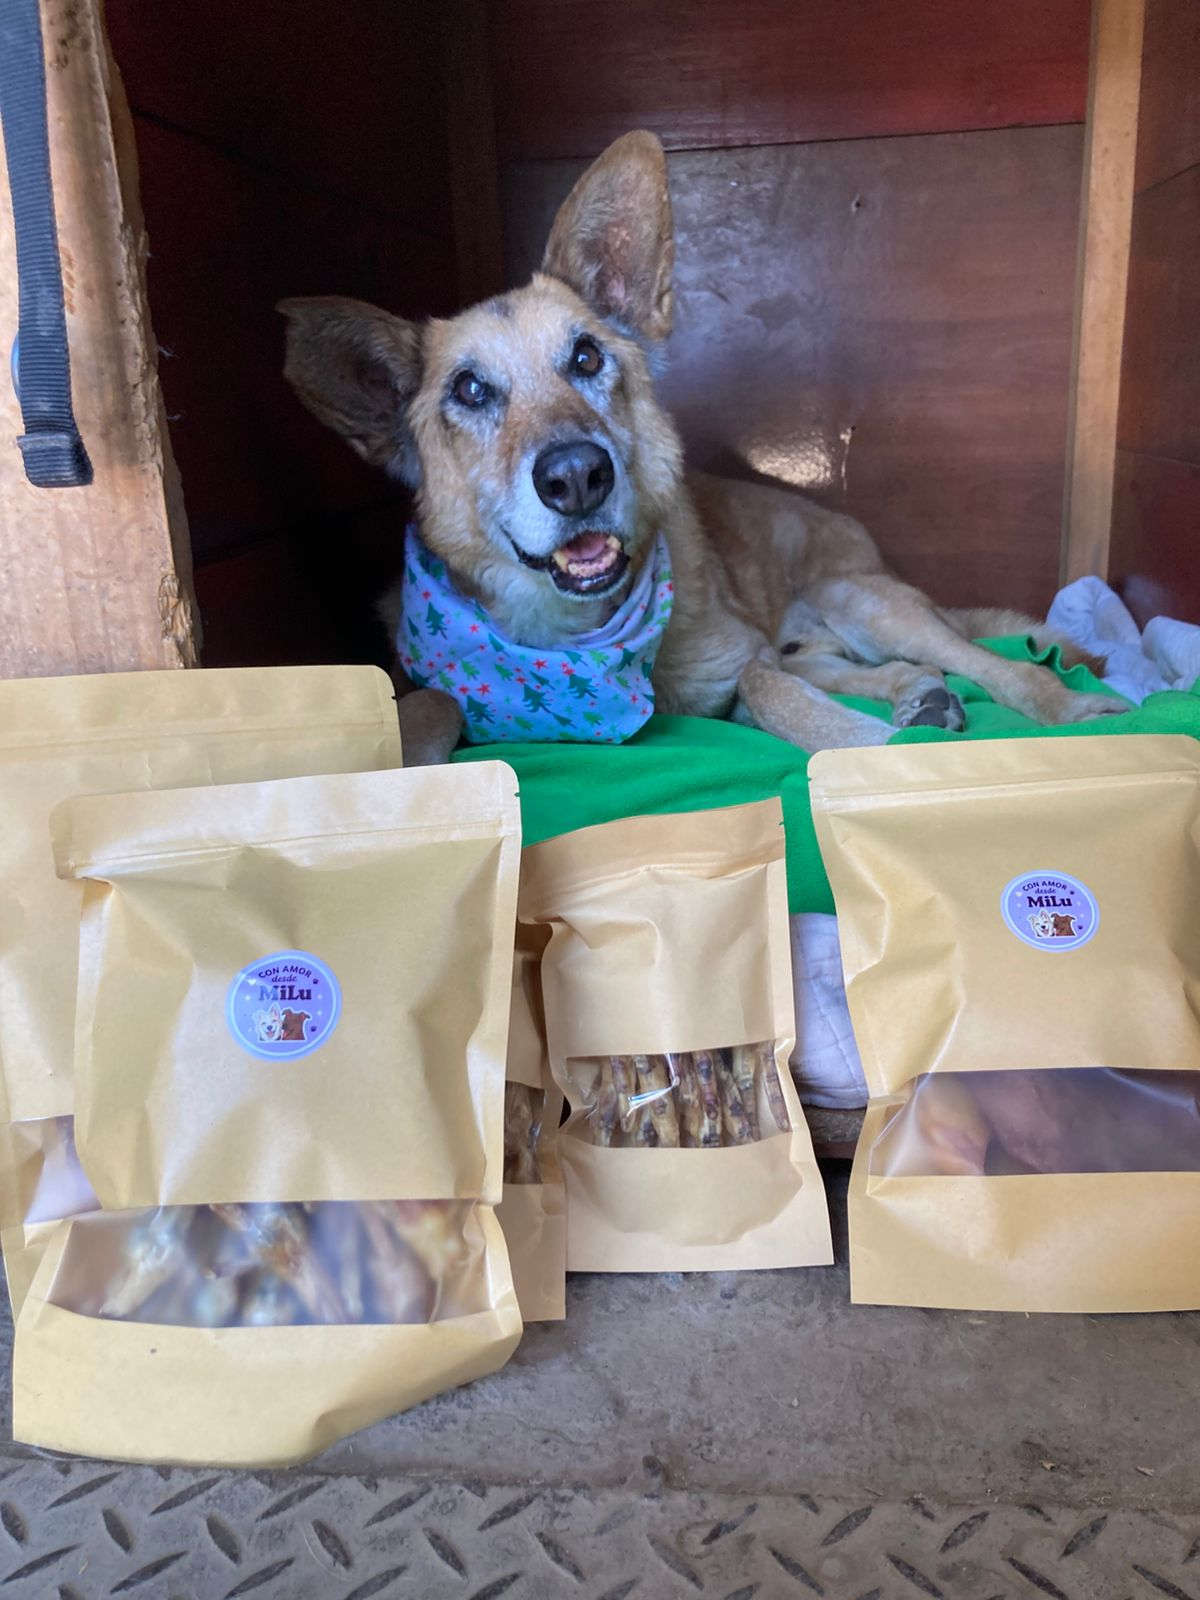
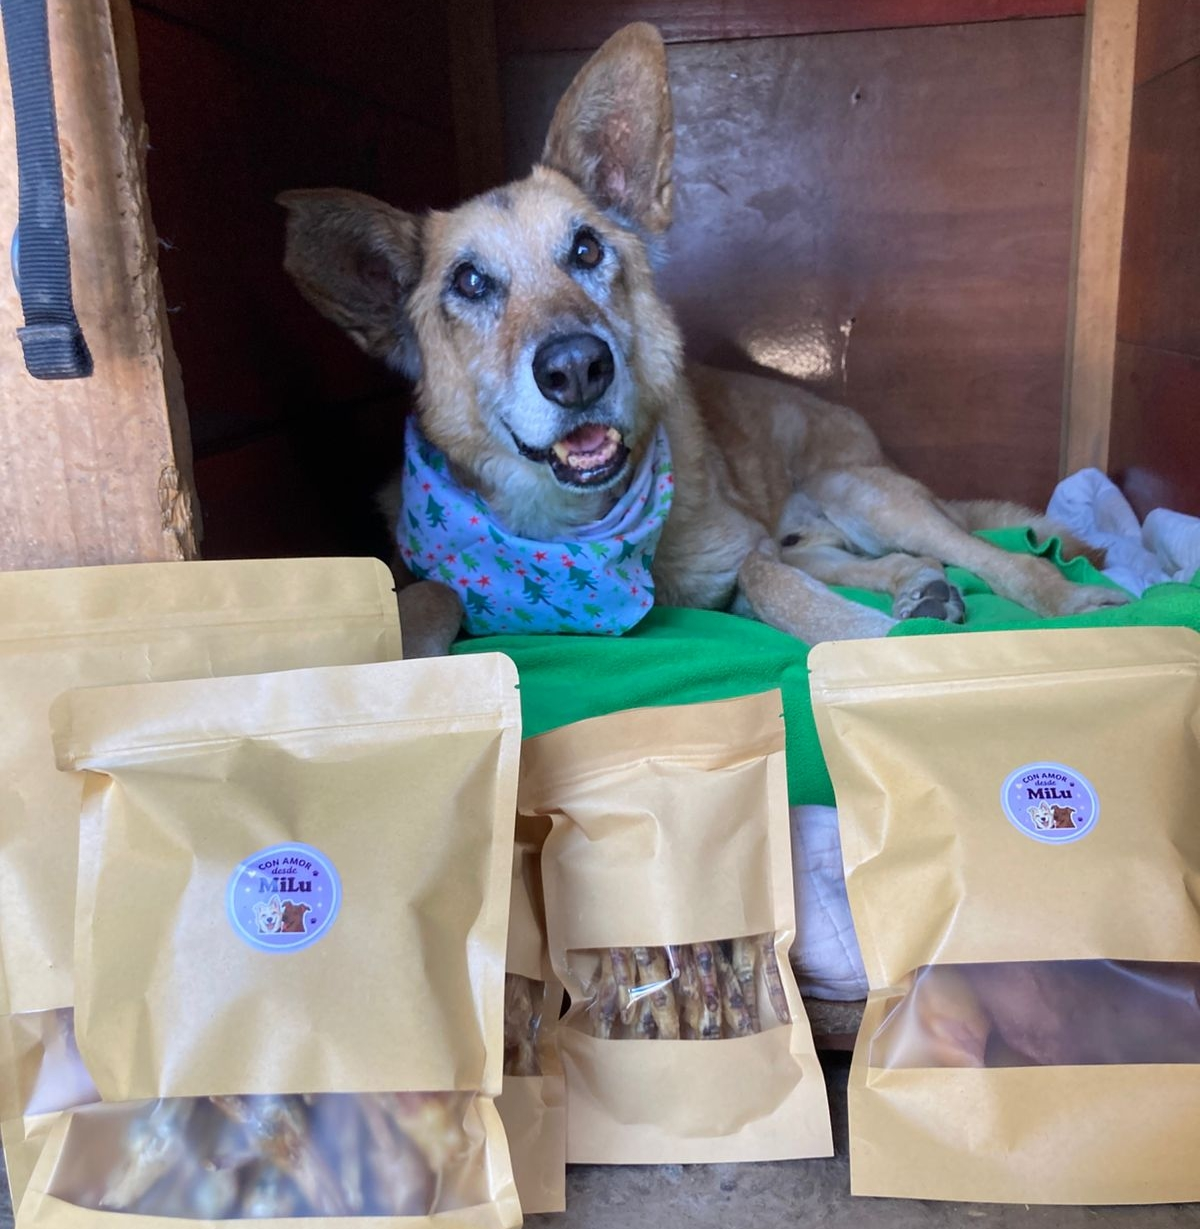
mejoras

diff --git a/index.html b/index.html
@@ -19,30 +19,38 @@
                 <img src="img/aeda-imagotipo.svg" alt="Agrupación de Estudiantes por la Defensa de los Animales (AEDA) - Chile" />
             </h1>
             <nav id="menu-principal">
-                <a href="#">Inicio</a>
-                <a href="#">Nosotros</a>            
+                <a href="./">Inicio</a>
+                <a href="#hero">Nosotros</a>
                 <a href="#contacto">Contacto</a>
-                <a class="btn-especial" href="#">Cómo Ayudar</a>
+                <a class="btn-especial" href="#como-ayudar">Cómo Ayudar</a>
             </nav>
         </div>
     </header>   
     
     <!-- MAIN -->
-    <main id="main">
-        <!-- 
-        <section class="heroe">
-            <h2>Defensa y rescate de animales vulnerables en la USACH</h2>
-            <p>
-                Defendemos y cuidamos a los animales vulnerables de la USACH, brindándoles atención, rehabilitación y la oportunidad de una familia.
-            </p>
-            <nav>
-                <a href="#">Únete como Voluntario</a>
-                <a href="#">¿Cómo Ayudarnos?</a>
-            </nav>
+    <main id="main">        
+        <section id="hero" class="heroe">
+            <div class="slide">
+                <img src="img/fotos/las-cabras.jpeg" alt="Sol, Dumba y Maxi - AEDA" class="active" />
+                <img src="img/fotos/coraje.jpeg" alt="Don Coraje - AEDA" style="object-position: top center;" />                
+                <img src="img/fotos/orejas-regalos.jpeg" alt="Orejas - AEDA" />                                
+                <img src="img/fotos/sol-metro.jpeg" alt="Sol en el metro de Santiago - AEDA" />
+                <img src="img/fotos/cerbero.jpeg" alt="Cerberito - AEDA" />                    
+            </div>
+            <div class="content">
+                <h2>Defensa y rescate de animales vulnerables en la USACH</h2>
+                <p>
+                    Defendemos y cuidamos a los animales vulnerables de la USACH, brindándoles atención, rehabilitación y la oportunidad de una familia.
+                </p>
+                <nav>
+                    <a class="cta" href="#voluntarios">Únete como Voluntario</a>
+                    <a class="cta" href="#como-ayudarnos">¿Cómo Ayudarnos?</a>
+                </nav>
+            </div>            
         </section>
-        -->
+        
 
-        <section class="como-ayudar">
+        <section id="como-ayudar" class="como-ayudar">
             <div>
                 <h2>¿Cómo Ayudarnos?</h2>
                 <p>Puedes ayudarnos de múltiples formas si tienes tiempo, espacio o recursos.</p>
@@ -167,6 +175,21 @@
                 </p>                
             </section>
             <section>
+                <h3>Cuentas</h3>
+                <p>
+                    <strong>Banco de Chile</strong><br />
+                    Vicente Luengo Sepulveda<br />
+                    Cuenta Corriente: 8014446204<br />
+                    RUT: 20.942.208-5
+                </p>
+                <p>
+                    <strong>Banco Estado</strong><br />
+                    Vicente Luengo Sepulveda<br />
+                    Cuenta RUT: 20942208<br />
+                    RUT: 20.942.208-5<br />
+                </p>
+            </section>
+            <section>
                 <h3>Ayúdanos</h3>
                 <nav>
                     <a href="#adopta">Adopta un Amigo</a>
@@ -210,5 +233,7 @@
             </defs>        
         </svg>
     </div>
+
+    <script src="js/script.js"></script>
 </body>
 </html>

diff --git a/css/estilo.css b/css/estilo.css
@@ -34,6 +34,8 @@ body {
 
 .no-mostrar {display: none;}
 
+strong {font-weight: bold;}
+
 p {text-align: justify;}
 
 #header, #footer { 
@@ -75,6 +77,7 @@ a.btn-especial, a.cta {
     font-weight: 600;
     border-radius: 10px;    
     padding: 0.55rem 2rem;
+    white-space: nowrap;
 }
 
 a.btn-especial:hover {
@@ -148,7 +151,9 @@ article a.cta {
     text-align: center;
 }
 article a.cta:hover {
-    color: var(--color-primario)
+    background-color: var(--color-primario);
+    text-decoration: none;
+    color: white;
 }
 article figure {
     margin: 0;           
@@ -246,4 +251,66 @@ footer a svg {
 footer p {
     line-height: 1.65rem;
     color: var(--color-text2);
+}
+
+/* HEROE */
+.heroe {
+    background-color: var(--color-bg2);
+    display: flex;
+    flex-wrap: wrap;    
+    border-radius: 20px;
+    margin-top: 2rem;    
+}
+
+.heroe h2 {
+    font-weight: 900;
+    font-size: 3.4rem;
+    line-height: 1;
+    margin-bottom: 1rem;
+}
+
+.heroe nav {
+    display: flex;
+    flex-wrap: wrap;
+    margin-top: 1.3rem;    
+    gap: 1rem;
+}
+
+.heroe nav a.cta:hover {
+    background-color: var(--color-primario);
+    color: white;
+}
+
+.heroe .slide {
+    flex: 3 1 30rem;
+    height: 40rem;
+    border-radius: 20px;    
+    overflow: hidden;
+}
+.heroe .content {
+    flex: 2 1 30rem;
+}
+
+.slide img.active {
+    opacity: 1;
+    display: block;
+}
+
+.slide img {
+    width: 100%;
+    height: 100%;
+    object-fit: cover;
+    display: block;
+    opacity: 0;
+    display: none;
+}
+
+.heroe .content {    
+    display: flex;
+    flex-direction: column;
+    justify-content: center;
+    padding: 3rem;
+    box-sizing: border-box;
+    font-size: 1.3rem;
+    line-height: 2.1rem;
 }

diff --git a/js/script.js b/js/script.js
@@ -1,0 +1,11 @@
+document.addEventListener("DOMContentLoaded", function() {
+    const slides = document.querySelectorAll('.slide img');
+    console.dir(slides);
+    let current = 0;
+
+    setInterval(() => {
+        slides[current].classList.remove('active');
+        current = (current + 1) % slides.length;
+        slides[current].classList.add('active');
+    }, 4000); 
+});
